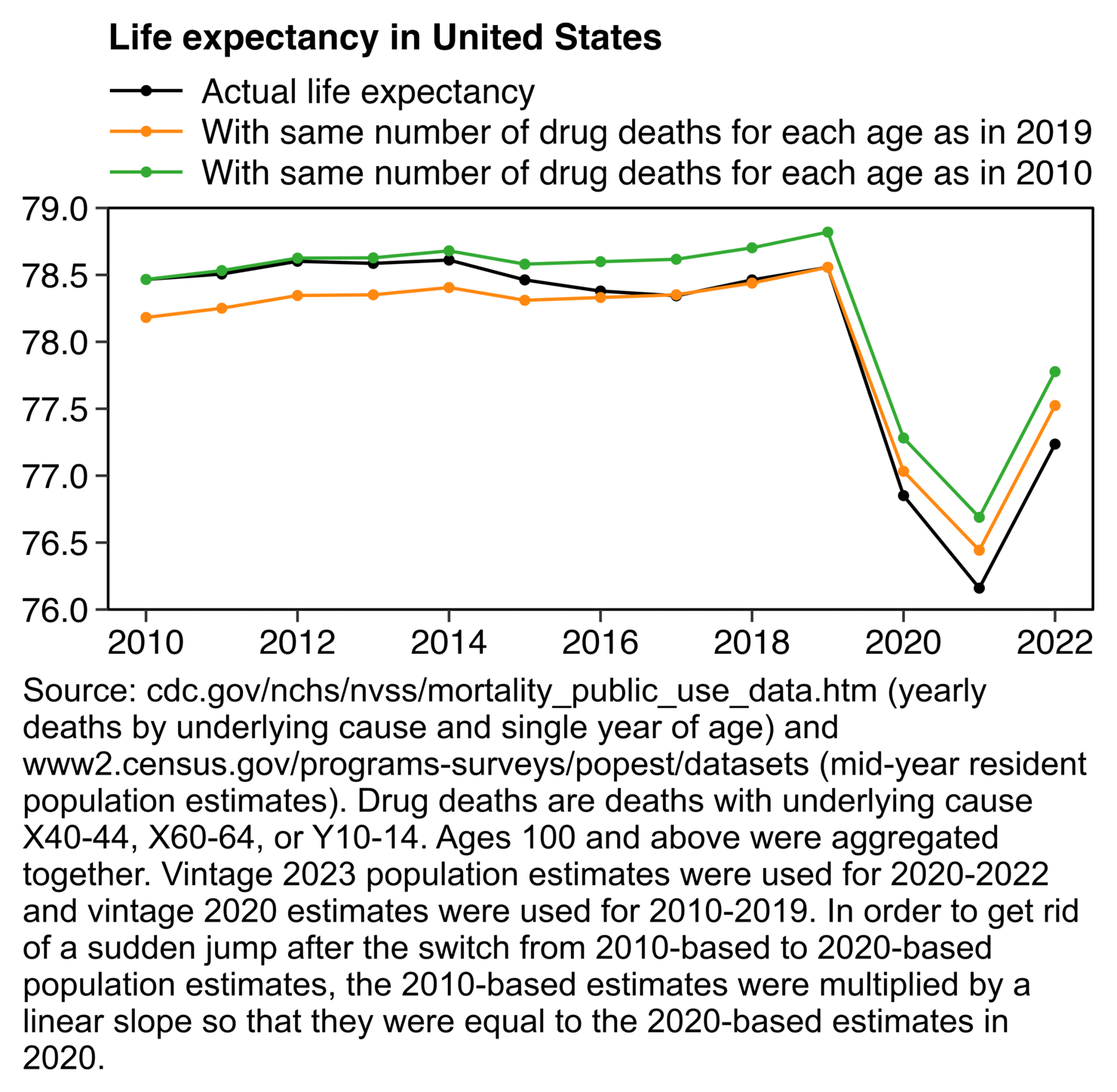
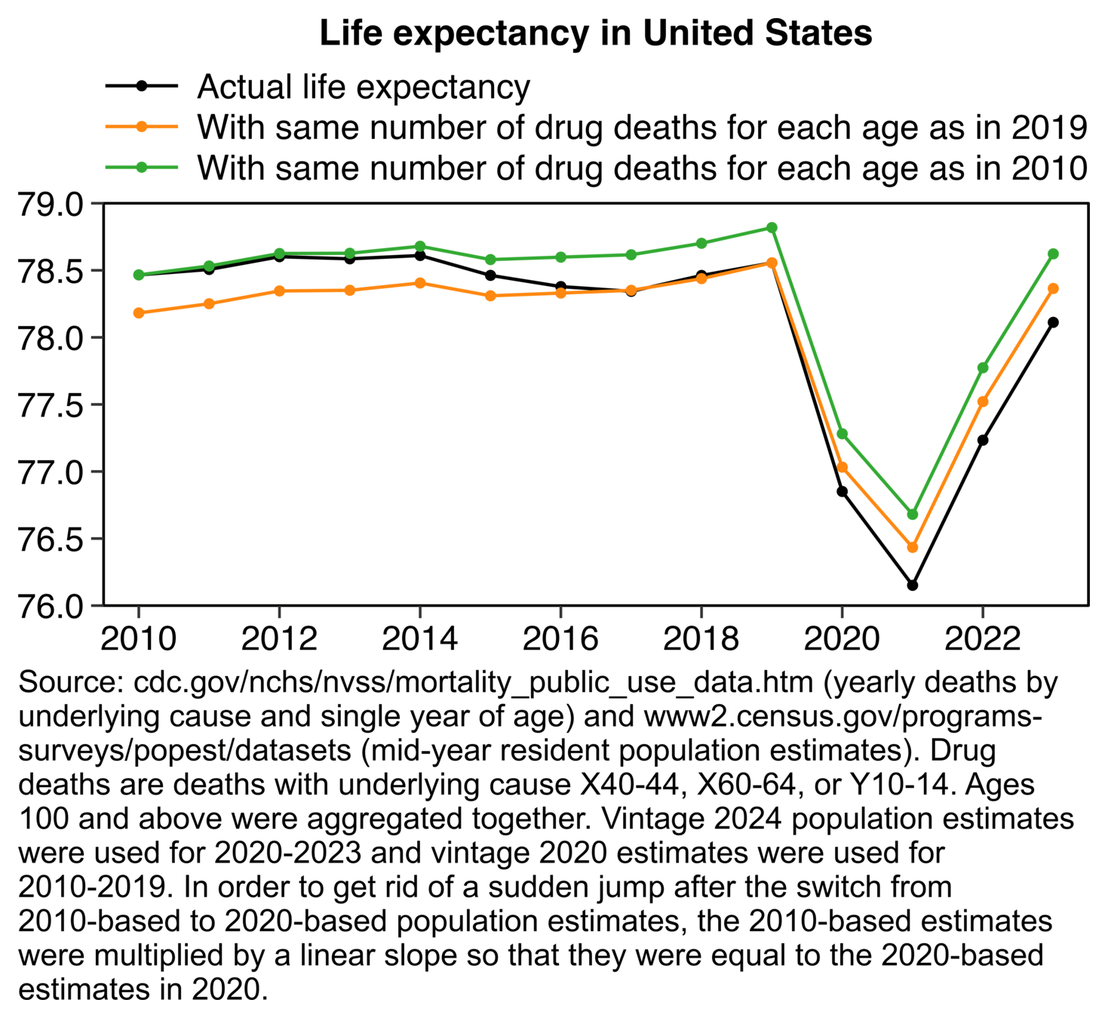
a

Changed region(s): [[0.0, 0.0, 1.0, 0.9963]]

diff --git a/pfizerstew.html b/pfizerstew.html
@@ -627,12 +627,12 @@ blockquote h3{color:inherit}
 <img src=i/alt-broudy-14.jpg width=1000>
 </div>
 <p>The first interview that Youngmi Lee and Daniel Broudy did about their paper was on a podcast by the Twitter account Died Suddenly. Died Suddenly also posted a tweet about their paper which got over 8 million views (which featured one video clip of Richard Hirschman and another video clip of a panel by Ana Maria Mihalcea, Mat Taylor, David Nixon, and Shimon Yanowitz). [<a href=https://x.com/DiedSuddenly_/status/1821862671328714830>https://x.com/DiedSuddenly_/status/1821862671328714830</a>]</p>
-<p>Daniel Broudy wrote an article that was published by PANDA and he did a video presentation for PANDA. [<a href=https://pandata.org/the-serpent-and-the-staff/>https://pandata.org/the-serpent-and-the-staff/</a>, <a href=https://pandata.org/patterns-of-deception-and-deviance-post-truth/>https://pandata.org/patterns-of-deception-and-deviance-post-truth/</a>] He is the co-director and co-editor of an online publication called Propaganda in Focus along with Piers Robinson, who is also a member of PANDA. [<a href=https://propagandainfocus.com/our-team/>https://propagandainfocus.com/our-team/</a>] The third editor of Propaganda in Focus is Mark Crispin Miller, whose bio says that he used to teach courses on propaganda at New York University and that he has received a grant from the Rockefeller Foundation:</p>
+<p>Daniel Broudy wrote an article that was published by PANDA and he did a video presentation for PANDA. [<a href=https://pandata.org/the-serpent-and-the-staff/>https://pandata.org/the-serpent-and-the-staff/</a>, <a href=https://pandata.org/patterns-of-deception-and-deviance-post-truth/>https://pandata.org/patterns-of-deception-and-deviance-post-truth/</a>] He is the co-director and co-editor of an online publication called Propaganda in Focus along with Piers Robinson, who used to be listed as one of six team members of the Nick Hudson Institute. [<a href=http://web.archive.org/web/20230508084023/https://pandata.org/panda-team/>http://web.archive.org/web/20230508084023/https://pandata.org/panda-team/</a>] Daniel Broudy is one of three co-editors of Synesthesia Journal, whose review board includes Piers Robinson. [<a href=https://www.synaesthesiajournal.com/contact.html>https://www.synaesthesiajournal.com/contact.html</a>] The third editor of Propaganda in Focus is Mark Crispin Miller, whose bio says that he used to teach courses on propaganda at New York University and that he has received a grant from the Rockefeller Foundation:</p>
 <div>
 <img src=i/alt-broudy-4.jpg width=700>
 </div>
 <p>The War of the Worlds broadcast was orchestrated by psychologists from New York under a grant from the Rockefeller Foundation. An article published by the Rockefeller Archive described that the authors later received another grant to research the public reaction to the broadcast: <span class="quote">"In his grant proposal, Cantril identified the public reaction to the War of the Worlds broadcast as <span class="quote">'an almost unparalleled source of data'</span> for those interested in understanding the impact of radio on mass movements. It would also be of use to educators troubled by what the response to the broadcast suggests about <span class="quote">'critical thinking and propaganda.'</span> It was a persuasive argument for program officers seeking to understand more clearly how propaganda works, and how to better educate Americans in media literacy."</span> [<a href=https://resource.rockarch.org/story/war-of-the-worlds-rockefeller-philanthropies-disinformation-and-media-literacy-in-the-1930s/>https://resource.rockarch.org/story/war-of-the-worlds-rockefeller-philanthropies-disinformation-and-media-literacy-in-the-1930s/</a>] So I wonder if modern-day researchers of propaganda similarly release propaganda themselves in order to study how the public audience reacts to propaganda.</p>
-<p>Daniel Broudy has also coauthored two papers about nanotechnology in COVID vaccines with Valerie Kyrie, whose bio says that her doctoral thesis focused on the topic of reality perception and its manipulation: <span class="quote">"With a PhD in Experimental Psychology, Masters in Clinical Psychology, Kyrie is working in the areas of political psychology, the psychology of atrocity, and psychological operations / perception management. Her doctorate in psychology focused on the topic of reality-perception and its manipulation."</span> [<a href=https://ijvtpr.com/index.php/IJVTPR/article/view/49>https://ijvtpr.com/index.php/IJVTPR/article/view/49</a>, <a href=https://ijvtpr.com/index.php/IJVTPR/article/view/32>https://ijvtpr.com/index.php/IJVTPR/article/view/32</a>] When her bio says that she is working in the area of psychological operations, it might have the overt meaning that she is trying to expose psychological operations conducted by other people, because for example she coauthored an article with Daniel Broudy titled <span class="quote">"The Covid-19 Concoction: A Recipe for Successful Psychological Operations"</span>. [<a href=https://propagandainfocus.com/the-covid-19-concoction-a-recipe-for-successful-psychological-operations/>https://propagandainfocus.com/the-covid-19-concoction-a-recipe-for-successful-psychological-operations/</a>] However I suspect that it's also intended to have the covert meaning that she is conducting psychological operations herself.</p>
+<p>IJVTPR also published two papers about nanotechnology in COVID vaccines coauthored by Daniel Broudy and Valerie Kyrie. [<a href=https://ijvtpr.com/index.php/IJVTPR/article/view/49>https://ijvtpr.com/index.php/IJVTPR/article/view/49</a>, <a href=https://ijvtpr.com/index.php/IJVTPR/article/view/32>https://ijvtpr.com/index.php/IJVTPR/article/view/32</a>] Kyrie's bio says that her doctoral thesis focused on the topic of reality perception and its manipulation: <span class="quote">"With a PhD in Experimental Psychology, Masters in Clinical Psychology, Kyrie is working in the areas of political psychology, the psychology of atrocity, and psychological operations / perception management. Her doctorate in psychology focused on the topic of reality-perception and its manipulation."</span> The other paper said: <span class="quote">"The impetus for this cross-disciplinary study was current reports from a substantial proportion of injected subjects who emitted alphanumeric signals in the frequency range corresponding to Bluetooth communications networks. [...] The <span class="quote">'vaccines'</span> (hereafter, <span class="quote">'platforms'</span>) are at the very center of the construction of a global network of communications needed for the commodification of objects and bodies (Sinclair et al., 2019). [...] With researchers and practitioners around the world reporting undeclared and apparently bizarrely (bio)mechanical nano-contents in COVID-19 injections (Anonymous, 2022a; Anonymous 2022b; Botha, 2021; Campra, 2021a, 2021b, 2021c, 2022; Delgado, 2022; Ghitalla, 2021a; La Quinta Columna, 2022; Lee et al., 2022; Monteverde et al., 2022; Shelton &amp; Gray, 2021; Young, 2021), accompanied by evidence of unidentified inorganic structures in the blood of injected individuals (Anonymous, 2022b; Botha, 2021; Ghitalla, 2021b; Koroknay, 2021; van Welbergen, 2021; Yanowitz, 2022; Young, 2021), combined with reports of apparent Bluetooth connectivity in the vaccinated (Sarlangue et al., 2021), a set of possibilities anchored in relevant scientific literatures has been proposed."</span> [<a href=https://ijvtpr.com/index.php/IJVTPR/article/view/49/302>https://ijvtpr.com/index.php/IJVTPR/article/view/49/302</a>]</p>
 <p>The senior editor of IJVTPR is Christopher A. Shaw who is also listed as an author at Propaganda in Focus. [<a href=https://ijvtpr.com/index.php/IJVTPR/about/editorialTeam>https://ijvtpr.com/index.php/IJVTPR/about/editorialTeam</a>, <a href=https://propagandainfocus.com/our-team/>https://propagandainfocus.com/our-team/</a>]</p>
 <p>As far as I can tell Lee and Broudy never wrote in their paper that they saw nanobots, but only <span class="quote">"nanobot-like structures"</span>, <span class="quote">"algae-typed magnetic nanobot-like spirals"</span>, <span class="quote">"bio-nano-robot like coils"</span>, <span class="quote">"nanoparticles"</span>, <span class="quote">"nanowires"</span>, and <span class="quote">"nanostructures"</span>:</p>
 <blockquote>
@@ -1211,6 +1211,7 @@ Jane Ruby
 <div>
 <img src=i/pfizerstew-semennanobot.jpg width=550>
 </div>
+<p>In 2022 Shimon Yanowitz told Latypova that <span class="quote">"you and I have a mutual friend in South Korea who has isolated structures from blood of jabbed people"</span>, which probably referred to Youngmi Lee. [<a href=https://www.bitchute.com/video/9ZFHWKEYxlCa/>https://www.bitchute.com/video/9ZFHWKEYxlCa/</a>, time 41:54]</p>
 <h2>
 <a href=#Dutch_trial_where_the_witnesses_included_Latypova_and_Yeadon id=Dutch_trial_where_the_witnesses_included_Latypova_and_Yeadon>Dutch trial where the witnesses included Latypova and Yeadon</a>
 </h2>
@@ -1223,14 +1224,14 @@ Jane Ruby
 <p>Van Kessel believes that Bill Gates will control us remotely through the vaccines. <span class="quote">"Honestly, believe me, I'm not a fool. We're going to be controlled remotely. Everyone who gets that shot is going to be screwed. You'll become half robot, half human. That's what happens with nanotechnology, and nanotechnology exists. The patents are real. If you had told me this two years ago, I would have said: you're crazy. But after all the research we've done... I'm not crazy. I'm a lawyer."</span></p>
 <p>Gates has never said he wants to kill the world's population with vaccines. But Van Kessel insists. He claims the nanomaterial graphene oxide, an often-debunked conspiracy theory, is in the vaccines to kill people. <span class="quote">"If you've had two shots, I'm convinced you won't live longer than five years. And you do nothing about it."</span></p>
 </blockquote>
-<p>Van Kessel seems to be a sovereign citizenship guy, because he said that Mark Rutte was not really the prime minister of Netherlands, but the director of a company called the State of the Netherlands that was registered in Washington DC:</p>
+<p>Van Kessel seems to be a sovereign citizenship guy, because he said that Mark Rutte was not really the prime minister of Netherlands, but rather the director of a company called the State of the Netherlands that was registered in Washington DC:</p>
 <blockquote>
 <p>Van Kessel says during the investigation he discovered a global conspiracy between the Freemasons and the Rockefeller Foundation, who want to form a single world government: The New World Order . He also claims that Microsoft founder Bill Gates has been tasked with decimating the world population through coronavirus vaccines. The United Nations is said to be invoking Satan and relaying the Rockefeller Foundation's orders to the World Health Organization and the RIVM (National Institute for Public Health and the Environment). These orders would ultimately end up with caretaker Prime Minister Rutte and the various ministers.</p>
 <p>We think Rutte is our prime minister, says Van Kessel. But according to him, that's not the case. <span class="quote">"I'm pretty convinced that everything is perception, everything is fiction. What's going on? In our perception, Mark Rutte has the title of prime minister of the Netherlands. In reality, he has the title of a company, director of the State of the Netherlands. Registered in Washington, DC. And he signed an important contract."</span></p>
 </blockquote>
-<p>In June 2025 van Kessel was arrested by the Dutch anti-terrorism unit DSI because he waws suspected of being involved in a criminal network: [<a href=https://bvs.nl/column-in-english/>https://bvs.nl/column-in-english/</a>]</p>
+<p>In June 2025 van Kessel was arrested by the Dutch anti-terrorism unit DSI because he was suspected of being involved in a criminal network: [<a href=https://bvs.nl/column-in-english/>https://bvs.nl/column-in-english/</a>]</p>
 <blockquote>
-<p>Simultaneously with a number of sovereigns, lawyer Arno van Kessel from Leeuwarden was also arrested on 11 June just before the NATO summit by 15 members of the Special Intervention Service (DSI) in the presence of the examining magistrate and the dean of the Bar Association of the Northern Netherlands. (as is customary with lawyers because of their right to refuse to testify). The dean started a suspension procedure shortly afterwards, without access to details of the case, which raises questions about the independence and care of this step."</p>
+<p>Simultaneously with a number of sovereigns, lawyer Arno van Kessel from Leeuwarden was also arrested on 11 June just before the NATO summit by 15 members of the Special Intervention Service (DSI) in the presence of the examining magistrate and the dean of the Bar Association of the Northern Netherlands (as is customary with lawyers because of their right to refuse to testify). The dean started a suspension procedure shortly afterwards, without access to details of the case, which raises questions about the independence and care of this step.</p>
 <p>On 26 June 2025, Van Kessel's pre-trial detention was extended by 90 days on suspicion of involvement in a <span class="quote">"criminal network"</span> with <span class="quote">"anti-institutional ideology"</span> that may have wanted to collect or use weapons or dangerous substances, possibly in connection with the NATO summit of 24-25 June 2025 in The Hague.</p>
 </blockquote>
 <p>An announcement by the Dutch police said: <span class="quote">"The investigation by the police and Public Prosecution Service in the Northern Netherlands focuses on a criminal network in which a large proportion of the arrested suspects adhere to anti-institutional ideology and may have the intention to use violence. [...] In addition to the arrests, searches were conducted in various locations in the Netherlands. [...] Weapons and ammunition, narcotics, possible explosives, and potentially hazardous substances were found and seized."</span> [<a href=https://www.politie.nl/nieuws/2025/juni/11/01-onderzoek-naar-crimineel-netwerk---acht-verdachten-aangehouden.html>https://www.politie.nl/nieuws/2025/juni/11/01-onderzoek-naar-crimineel-netwerk—acht-verdachten-aangehouden.html</a>]</p>
@@ -1243,7 +1244,7 @@ Jane Ruby
 <p>After Latypova did her alt media debut on the Stew Peters Show, I belive the next two people who interviewed her were Willem Engel from the Dutch organization Viruswaarheid, and J.J. Couey who used to live in the Netherlands.</p>
 <p>In 2020 the first non-solo videos Couey did in alt media were video panels that were hosted by George Webb's mini-me Addy Adds: <a href=clot2.html#Kevin_McCairns_connection_to_Cottrell_Couey_Kulacz_and_Webb>clot2.html#Kevin_McCairns_connection_to_Cottrell_Couey_Kulacz_and_Webb</a>. The panels also featured George Webb's biology teacher Paul Cottrell, and George Webb's email whistleblower Mark Kulacz. George Webb has said that he used to work with Dutch intelligence in New York, and he wrote a book about Erasmus Medical Center which is where Couey worked. Webb used to be the sidekick of Jason Goodman, whose current sidekick John Cullen speaks Dutch.</p>
 <p>(I don't know if any of these Dutch connections are relevant to why Fitts or Latypova were selected as the witnesses in the trial, but I thought they were still worth mentioning.)</p>
-<p>One of van Kassel's expert witnesses Joe Sansone, who runs a hypnosis company where his services include assisting clients in improving their golf game and <span class="quote">"helping clients explore consciousness and soul level changes"</span>. [<a href=https://www.linkedin.com/in/joseph-sansone-m-s-phd-ccmhc-lmhc-1a683638/>https://www.linkedin.com/in/joseph-sansone-m-s-phd-ccmhc-lmhc-1a683638/</a>]</p>
+<p>One of van Kassel's expert witnesses Joe Sansone, who runs a hypnosis company where his services range from hypnotizing his clients to improve their golf game to assisting them in exploring soul level changes: [<a href=https://www.linkedin.com/in/joseph-sansone-m-s-phd-ccmhc-lmhc-1a683638/>https://www.linkedin.com/in/joseph-sansone-m-s-phd-ccmhc-lmhc-1a683638/</a>]</p>
 <div>
 <img src=i/pfizerstew-kassel-samsone.png width=560>
 </div>

diff --git a/clot.html b/clot.html
@@ -1931,6 +1931,7 @@ ggsave(&quot;1.png&quot;,width=6,height=3.5,dpi=300*4)</pre>
 <p>Hilary Butler who is a long-time anti-vaccine activist from New Zealand posted this comment at Substack: <span class="quote">"Dr Suzanne Humphries never spoke of nano bots or graphene. Matt Shelton visited Suzanne and persuaded her to hand over the files of her work under the guise of taking them to the police as evidence, only to go public and say anything he wanted to say. He will corroborate that he got the images from Dr Suzanne. Dr Suzanne wrote about Semmelweis in Dissolving Illusions and I happen to know that she used the name Nate Semmelwies early on (on masksaredangerous site which was created in a rush by an amateur friend of hers before covid vaccines were released when the mask issue was upsetting her) when she was anonymously talking about the images, only to later put them up on a site called lifeoftheblood, which she closed as she didn't want to keep paying for her server fees. She moved them to bitchute where they remain. Funny enough Jayne Ruby launched a surprise attack against Suzanne after the Joe Rogan podcast, where she accused Suzanne of <span class="quote">'coming out of nowhere'</span>."</span> [<a href=https://openvaet.substack.com/p/from-opioids-and-fraud-to-maga-and/comment/135014599>https://openvaet.substack.com/p/from-opioids-and-fraud-to-maga-and/comment/135014599</a>]</p>
 <p>I didn't actually see the name Nate Semmelweis mentioned in relation to the microscope images, but it was only mentioned in the earlier post on the website masksaredangerous.com.</p>
 <p>Butler's explanation seems plausible, but it's still weird how the blog post at lifeoftheblood.com was written in a mixture of British and American English. Shelton also said that the microscope photos were taken by a team, but Humphries made it seem like she took the photos by herself.</p>
+<p>Butler gave the impression that masksaredangerous.com was essentially a personal website of Humphries, because the website had only two articles but she indicated both of them were written by Humphries. However <span class="quote">"Who We Are"</span> page on the website said said that one of their editors was a male medical doctor: <span class="quote">"One of our editors is a licensed medical doctor and he never thought twice about wearing a mask in surgery or in a patient room with a known infection like TB, or even swine flu."</span> [<a href=https://archive.md/uR1J0>https://archive.md/uR1J0</a>] The same page also said: <span class="quote">"Our group of educated parents, authors, and doctors do not believe that masks should be worn by anyone who is well."</span> I didn't see any features of British English employed on the page, but the words <span class="quote">"favor"</span>, <span class="quote">"license"</span>, and <span class="quote">"airplane"</span> were written in American English.</p>
 <h3>
 <a href=#Azzard_Comrie id=Azzard_Comrie>Azzard Comrie</a>
 </h3>
@@ -3617,6 +3618,7 @@ system(paste0(&quot;mogrify &quot;,i,&quot;.png -trim -resize 25% -bordercolor w
 <p>This is how Santiago and Oller proved that vaccines kill people through combinatory logic (generalizing from proofs by the mathematician Gregory Chaitin): <span class="quote">"In the instance of the synthetic XNA coding for the SARS-CoV-2 spike protein, every instance introduced in, say, the Pfizer BNT162b2 injectable, is supposed to consist of an exact replica of a string of pseudo-codons pretending to be ordinary self-produced mRNA authored by the body's native nuclear DNA. In that respect each one of them is a lie to begin with. The SARS-CoV-2 virus itself, pretending to belong inside the cells, tissues, and organ systems of any human body is already a lie before it is transformed into any genetically modified XNA. However, when it is transformed into its XNA shape, coding for the 1273 amino acids of just the SARS-CoV-2 spike protein, it is modified to contain many additional lies embedded within itself. By simple combinatory logic we can show why those lies, billions of them in each dose of every genetically engineered injectable (Pfizer 13.1 billion, Moderna 13.1 billion, AstraZeneca 50 billion; according to Fleming, 2021, p. 99), must tend to increase exponentially over time into a multitude of multitudes of lies that rapidly reach a level of irreducible complexity (generalizing from proofs by Gregory Chaitin, 2004, 2007). Unless all of those lies can be expunged, corrected, or at least quarantined and ignored by the body's biosignaling systems, they must lead toward disorders, diseases, and the eventual catastrophic breakdown of the body's biosignaling systems which is death."</span></p>
 <p>Apart from Daniel Santiago and John W. Oller, other members of the editorial board of IJVTPR include Daniel Broudy and Shimon Yanowitz. [<a href=https://ijvtpr.com/index.php/IJVTPR/about/editorialTeam>https://ijvtpr.com/index.php/IJVTPR/about/editorialTeam</a>] In 2022 Yanowitz told Sasha Latypova that when he looked at his blood under a microscope, he found a synthetic fiber that may have been a Morgellons fiber, and that looked very mean and that made red blood cells nervous, and he also said that he found strange objects in his blood that looked like dinosaurs and missiles. Yanowitz also said that he and Latypova were mutual friends with Wayne from Australia, which probably referred to Wayne Crouch. [<a href=https://www.bitchute.com/video/9ZFHWKEYxlCa/>https://www.bitchute.com/video/9ZFHWKEYxlCa/</a>, time 36:42] Yanowitz probably referred to Youngmi Lee when he told Latypova that <span class="quote">"you and I have a mutual friend in South Korea who has isolated structures from blood of jabbed people"</span>. [time 41:54]</p>
 <p>IJVTPR is the journal that published the infamous nanobot paper in 2024 by Daniel Broudy and Youngmi Lee. [<a href=pfizerstew.html#Paper_about_nanotechnology_in_COVID_vaccines_by_Young_Mi_Lee_and_Daniel_Broudy>pfizerstew.html#Paper_about_nanotechnology_in_COVID_vaccines_by_Young_Mi_Lee_and_Daniel_Broudy</a>] And IJVTPR has published three other papers about nanotechnology in COVID vaccines by Daniel Broudy, David Hughes, and Valerie Kyrie, who all have a background in psychology or propaganda research, and who all write for a website called Propaganda in Focus. Valerie Kyrie's bio says that she works <span class="quote">"in the areas of political psychology, the psychology of atrocity, and psychological operations / perception management"</span> and that <span class="quote">"her doctorate in psychology focused on the topic of reality-perception and its manipulation"</span>. [<a href=https://ijvtpr.com/index.php/IJVTPR/article/view/49>https://ijvtpr.com/index.php/IJVTPR/article/view/49</a>] Daniel Broudy has a doctorate degree in applied psycholinguistics and he used to work in military intelligence, and his bio says: <span class="quote">"My work integrates research in linguistics, psychology, and communication theory to describe ways in which power centers design and conduct propaganda campaigns."</span> [<a href=https://www.researchgate.net/profile/Daniel-Broudy>https://www.researchgate.net/profile/Daniel-Broudy</a>] The bio of David Hughes says that he lectures in security studies and that his areas of research include psychological warfare and <span class="quote">"the class relations behind psychological operations"</span>. [<a href=https://propagandainfocus.com/our-team/>https://propagandainfocus.com/our-team/</a>]</p>
+<p>IJVTPR published a paper by Daniel Broudy and Valerie Kyrie that said: <span class="quote">"The impetus for this cross-disciplinary study was current reports from a substantial proportion of injected subjects who emitted alphanumeric signals in the frequency range corresponding to Bluetooth communications networks."</span> It also said: <span class="quote">"The <span class="quote">'vaccines'</span> (hereafter, <span class="quote">'platforms'</span>) are at the very center of the construction of a global network of communications needed for the commodification of objects and bodies (Sinclair et al., 2019)."</span> [<a href=https://ijvtpr.com/index.php/IJVTPR/article/view/49/302>https://ijvtpr.com/index.php/IJVTPR/article/view/49/302</a>]</p>
 <p>In 2022 IJVTPR published a paper by David Hughes, where he compiled microscope images published by various researchers who suggested that vaccines contained microchips, hydras, Morgellons fibers, nanoantennas, motherboards, graphene oxide razor blades, carbon nanotubes, nano-octopuses, mesospores, SIM cards, <em>Trypanosoma cruzi</em> parasites, hydrogel, microbubbles, long stick-like organisms, parasites attached to magnets, eggs that were hatching new structures, geometric structures that lit up when a mobile phone was used nearby, dark crystals, microelectric circuitry, and so on, and he wrote that the researchers must be onto something because <span class="quote">"at least 26 different investigations of the <span class="quote">'vaccine'</span> contents (almost entirely unrelated to one another) from 16 different countries on five continents converge on remarkably similar findings"</span>. [<a href=https://ijvtpr.com/index.php/IJVTPR/article/view/52/288>https://ijvtpr.com/index.php/IJVTPR/article/view/52/288</a>]</p>
 <p>A few days after IJVTPR published the paper by David Hughes, they published a response to the paper by Daniel Santiago. [<a href=https://ijvtpr.com/index.php/IJVTPR/article/view/56>https://ijvtpr.com/index.php/IJVTPR/article/view/56</a>] Santiago had little negative to say about the paper, and he didn't question if the vaccines contain structures like hydras or motherboards. But instead Santiago just said that vaccines didn't contain nitrogen or phosphorous, which he presented as evidence that vaccines did not contain DNA or RNA but instead they contained <span class="quote">"XNA"</span> (xeno nucleic acids), and he wrote that vaccines contained <span class="quote">"intentionally manufactured self-assembling components, built mainly from carbon-based materials used in computing and super-conductors"</span>:</p>
 <blockquote>
@@ -3732,7 +3734,7 @@ system(paste0(&quot;mogrify &quot;,i,&quot;.png -trim -resize 25% -bordercolor w
 <div>
 <img src=i/pfizerstew-blackeyed.jpg width=700>
 </div>
-<p>In 2021 Bryan Ardis also told Reiner Füllmich that 2-year-olds were menstruating blood clots:</p>
+<p>In 2021 Bryan Ardis also said that 2-year-olds were menstruating blood clots: <span class="quote">"There's 2-year-olds who are already menstruating blood clots, few hours within their actual parents being vaccinated. This is already reported in 2-year-old, 4-year-old, 6-year-old daughters and girls. This is the attempt of those female bodies to remove the toxic effects they're being exposed to by their vaccinated parents, or whoever they're around."</span> [<a href=https://www.bitchute.com/video/OpHAZhxeqddy/>https://www.bitchute.com/video/OpHAZhxeqddy/</a>, time 1:05:11]</p>
 <div>
 <img src=i/clot-ardis-2year.png width=550>
 </div>

diff --git a/statistic2.html b/statistic2.html
@@ -2433,17 +2433,16 @@ system(&quot;magick 1.png -resize 25% -colors 256 1.png&quot;)</pre>
 <h2>
 <a href=#Retsef_Levi_Significant_increase_in_cardiac_arrests_in_US_marathons id=Retsef_Levi_Significant_increase_in_cardiac_arrests_in_US_marathons>Retsef Levi: Significant increase in cardiac arrests in US marathons</a>
 </h2>
-<p>Retsef Levi wrote: <span class="quote">"JAMA study re cardiac arrest incidents in US marathons &amp; half marathons, shows significant increase during 2020-2023 compared to 2014-2019 (0.81 vs. 0.54 per 100K participants)."</span> [<a href=https://x.com/RetsefL/status/1906492494856028482>https://x.com/RetsefL/status/1906492494856028482</a>]</p>
-<p>Levi also showed this table from the JAMA study:</p>
+<p>Retsef Levi wrote: <span class="quote">"JAMA study re cardiac arrest incidents in US marathons &amp; half marathons, shows significant increase during 2020-2023 compared to 2014-2019 (0.81 vs. 0.54 per 100K participants)."</span> [<a href=https://x.com/RetsefL/status/1906492494856028482>https://x.com/RetsefL/status/1906492494856028482</a>] And he showed this table from the JAMA study:</p>
 <div>
 <img src=i/statistic-racer-2.png width=1300>
 </div>
-<p>The study he linked is behind a paywall on the publisher's website, but it's outside a paywall here: <a href=https://www.researchgate.net/publication/390320605_Cardiac_Arrest_During_Long-Distance_Running_Races.><a href="https://www.researchgate.net/publication/390320605_Cardiac_Arrest_During_Long-Distance_Running_Races" class="uri">https://www.researchgate.net/publication/390320605_Cardiac_Arrest_During_Long-Distance_Running_Races</a>.</a></p>
+<p>The study he linked is behind a paywall on the publisher's website, but it's outside a paywall at ResearchGate: <a href=https://www.researchgate.net/publication/390320605_Cardiac_Arrest_During_Long-Distance_Running_Races.><a href="https://www.researchgate.net/publication/390320605_Cardiac_Arrest_During_Long-Distance_Running_Races" class="uri">https://www.researchgate.net/publication/390320605_Cardiac_Arrest_During_Long-Distance_Running_Races</a>.</a></p>
 <p>In 2014-2019 there were 90 cardiac arrests per about 14.919 million participants, and in 2020-2023 there were 41 cardiac arrests per about 5.054 million participants. The p-value of the ratios is about 0.14 with a two-sided chi-squared test or about 0.07 with a one-sided test, so neither is significant:</p>
 <pre>prop.test(c(90,41),c(14919000,5054000))$p.value # 0.1395663
 prop.test(c(90,41),c(14919000,5054000),alternative=&quot;less&quot;)$p.value # 0.06978313</pre>
-<p>Levi highlighted this sentence from the paper: <span class="quote">"Cardiac arrest proportionswere stable between 2010-2014 (0.54 per 100000 [95% CI,0.41-0.68]) and 2015-2019 (0.58 per 100000 [95% CI, 0.45-0.73]) but increased significantly in 2020-2023 (0.81 per100 000 [95% CI, 0.58-1.10])."</span> However the authors didn't specify how they determined if the increase was significant or not, so they may have used the word <span class="quote">"significantly"</span> in a colloquial sense of <span class="quote">"considerably"</span> rather than in the sense of statistical significance.</p>
-<p>And anyway, there was already an increasing trend in the rate of cardiac arrests before COVID, so in order to determine if there has been a significant increase in the rate relative to the pre-COVID trend, you can look at whether the rate crosses above the upper bound of the 95% PI or not. But here relative to a 2000-2019 linear trend, the rate was below the upper bound of the PI each year since 2020:</p>
+<p>Levi highlighted this sentence from the paper: <span class="quote">"Cardiac arrest proportions were stable between 2010-2014 (0.54 per 100 000 [95% CI, 0.41-0.68]) and 2015-2019 (0.58 per 100 000 [95% CI, 0.45-0.73]) but increased significantly in 2020-2023 (0.81 per 100 000 [95% CI, 0.58-1.10])."</span> However the 95% CIs of the ratios overlapped, and the authors didn't specify how they determined if the increase was significant or not, so they may have used the word <span class="quote">"significantly"</span> in a colloquial sense of <span class="quote">"considerably"</span> rather than in the sense of statistical significance.</p>
+<p>There was already an increasing trend in the rate of cardiac arrests before COVID, in order to determine if there has been a significant increase in the rate relative to the pre-COVID trend, you can look at whether the rate crosses above the upper bound of the 95% PI or not. But here relative to a 2000-2019 linear trend, the rate was clearly below the upper bound of the PI each year in 2020-2023:</p>
 <div>
 <img src=i/statistic-racer.png width=600>
 </div>

diff --git a/nopandemic2.html b/nopandemic2.html
@@ -918,7 +918,7 @@ system(&quot;magick 1.png -resize 25% -colors 256 1.png&quot;)</pre>
 v=fread(&quot;curl -Ls sars2.net/f/vital.csv.xz|xz -dc&quot;)[year&gt;=2019]
 
 v[,drug:=cause%like%&quot;X4[0-4]|X6[0-4]|Y1[0-4]&quot;]
-a=v[,.(all=sum(ucd),drug=sum(ucd[drug])),.(year,age=pmin(age,100))]
+a=v[,.(dead=sum(ucd),drug=sum(ucd[drug])),.(year,age=pmin(age,100))]
 a[,drug2:=drug[year==2019][age+1]]
 a=merge(a,fread(&quot;http://sars2.net/f/uspopdead.csv&quot;)[,.(year,age,pop)])
 
@@ -939,9 +939,15 @@ round(o,2)
 <button>
 Show code
 </button>
-<pre>lifex=\(mx){n=length(mx);qx=mx/(1+mx/2);weighted.mean(1:n-.5,cumprod(c(1,1-qx[-n]))*qx)}
+<pre>library(data.table);library(ggplot2)
 
-pop=fread(&quot;http://sars2.net/f/uspopdead.csv&quot;)[year%in%2010:2022]
+lifex=\(mx){qx=mx/(1+mx/2)
+  n=length(mx);pop=rep(1,n);dead=rep(0,n)
+  for(i in 1:(n-1)){dead[i]=pop[i]*qx[i];pop[i+1]=max(0,pop[i]-dead[i])}
+  dead[n]=pop[n]*qx[n]
+  weighted.mean(0:(length(mx)-1)+.5,dead)}
+
+pop=fread(&quot;https://sars2.net/f/uspopdead.csv&quot;)[year%in%2010:2023]
 
 v=fread(&quot;curl -Ls sars2.net/f/vital.csv.xz|xz -dc&quot;)[year&gt;=2010]
 
@@ -987,10 +993,8 @@ theme(axis.text=element_text(size=11,color=&quot;black&quot;),
   panel.background=element_blank(),
   panel.border=element_rect(fill=NA,linewidth=.4),
   plot.margin=margin(7,6,6,6),
-  plot.title=element_text(size=11.5,face=&quot;bold&quot;,margin=margin(,,4)))
-ggsave(&quot;1.png&quot;,width=4.9,height=3,dpi=300*4)
-sub=&quot;Source: cdc.gov/nchs/nvss/mortality_public_use_data.htm (yearly deaths by underlying cause and single year of age) and www2.census.gov/programs-surveys/popest/datasets (mid-year resident population estimates). Drug deaths are deaths with underlying cause X40-44, X60-64, or Y10-14. Ages 100 and above were aggregated together. Vintage 2023 population estimates were used for 2020-2022 and vintage 2020 estimates were used for 2010-2019. In order to get rid of a sudden jump after the switch from 2010-based to 2020-based population estimates, the 2010-based estimates were multiplied by a linear slope so that they were equal to the 2020-based estimates in 2020.&quot;
-system(paste0(&quot;mogrify -trim 1.png;w=`identify -format %w 1.png`;magick 1.png \\( -size $[w]x -font Arial -interline-spacing -3 -pointsize $[44*4] caption:&#39;&quot;,gsub(&quot;&#39;&quot;,&quot;&#39;\\\\&#39;&quot;,sub),&quot;&#39; -splice x90 \\) -append -trim -resize 25% -bordercolor white -border 30 -colors 256 1.png&quot;))</pre>
+  plot.title=element_text(size=11.5,face=&quot;bold&quot;,hjust=.5,margin=margin(,,4)))
+ggsave(&quot;1.png&quot;,width=4.9,height=3,dpi=300*4)</pre>
 </div>
 <h2>
 <a href=#If_excess_deaths_in_2020_were_due_to_hospital_protocols_or_treatments_then_why_did_deaths_at_home_also_increase id=If_excess_deaths_in_2020_were_due_to_hospital_protocols_or_treatments_then_why_did_deaths_at_home_also_increase>If excess deaths in 2020 were due to hospital protocols or treatments then why did deaths at home also increase?</a>
